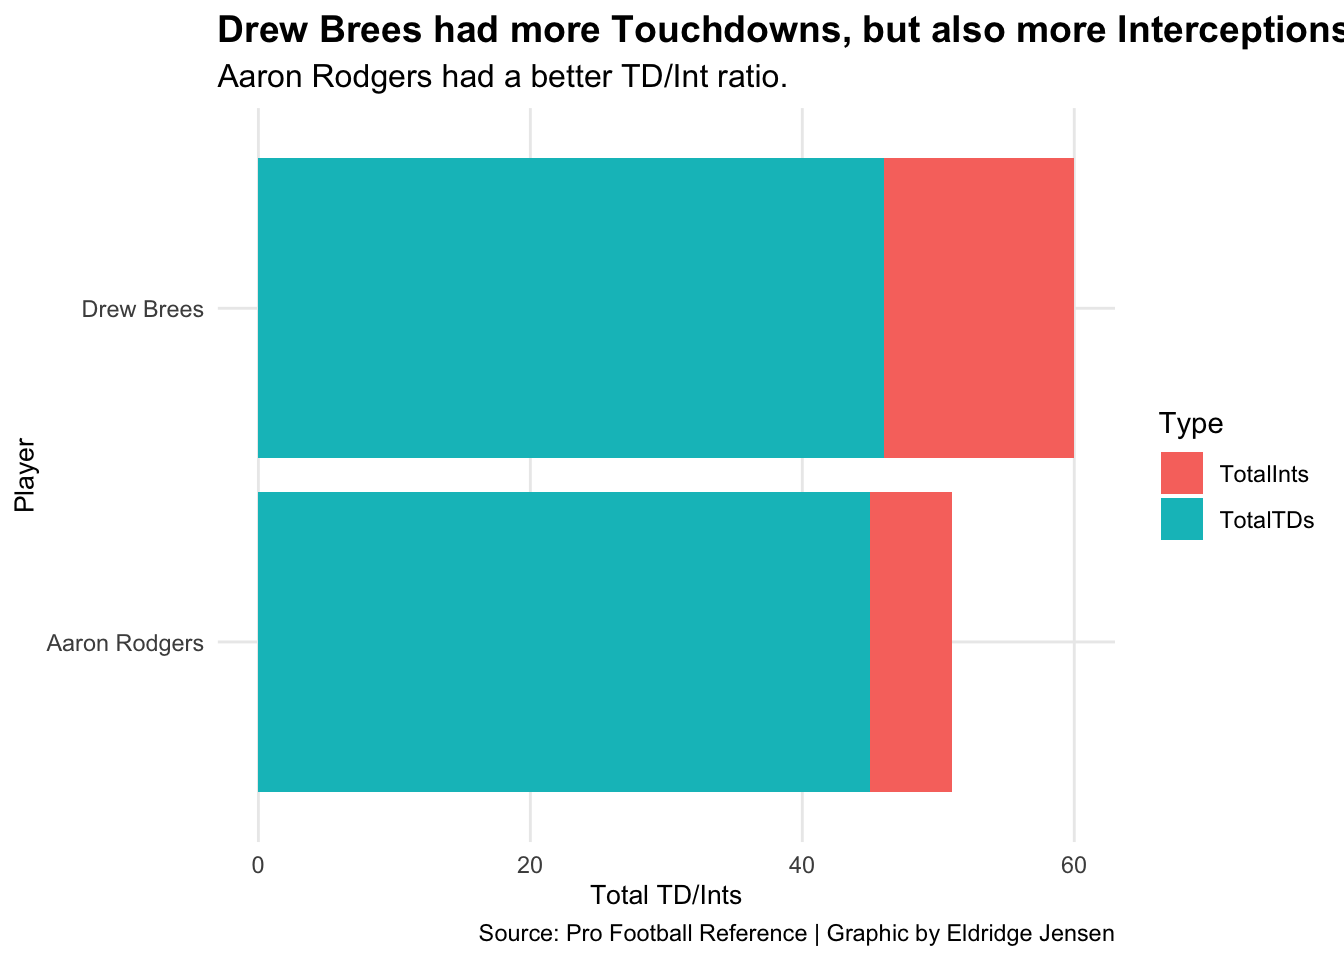
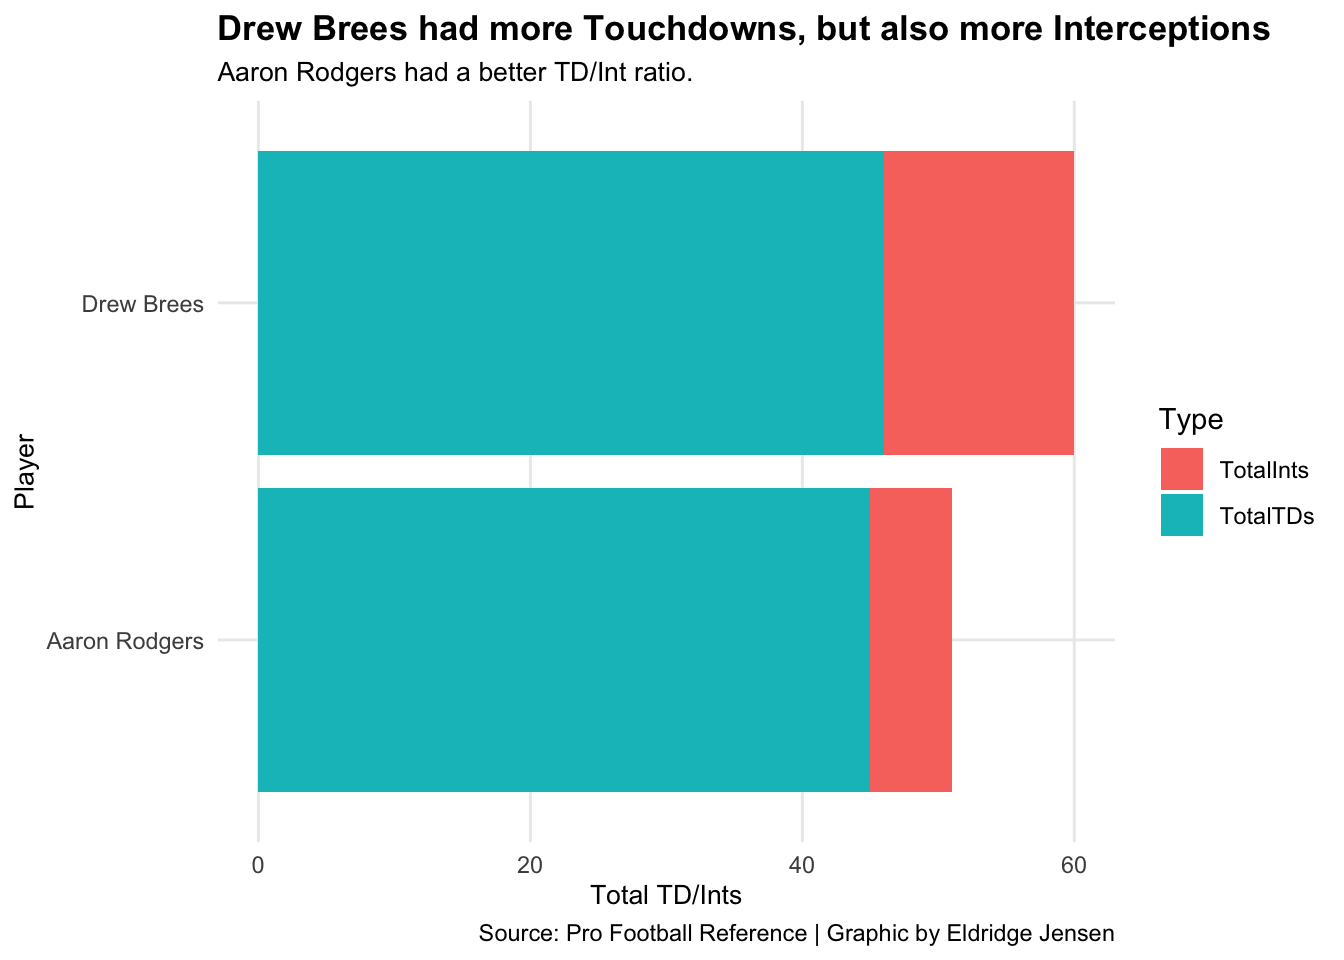
Final?
This should be everythig

diff --git a/posts/brees-mvp-rodgers-2011/index.html b/posts/brees-mvp-rodgers-2011/index.html
@@ -219,7 +219,7 @@ code span.wa { color: #60a0b0; font-weight: bold; font-style: italic; } /* Warni
 <div class="sourceCode cell-code" id="cb1"><pre class="sourceCode r code-with-copy"><code class="sourceCode r"><span id="cb1-1"><a href="#cb1-1" aria-hidden="true" tabindex="-1"></a><span class="fu">library</span>(tidyverse)</span></code><button title="Copy to Clipboard" class="code-copy-button"><i class="bi"></i></button></pre></div>
 </details>
 </div>
-<p>Over a long and decorated career, Drew Brees was seen as one of the best Quarterbacks to ever play the game of football. Retiring with the NFL record for Passing Yards, Passing Touchdowns, Passing Yards, Completion Percentage, and the most 5,000+ yard seasons in NFL history. He had also won a Super Bowl and won a couple Offensive Player of the Year Awards; but the one thing Brees never got in his illustrious career was an MVP. Drew Brees’ 2010-11 regular season was one of the best in NFL history, but his team held him back from winning an MVP. Setting a new record for passing yards in a regular season which still stand as second all time, Brees was able to finish top two in MVP finalist behind Aaron Rodgers with Rodgers winning the award.</p>
+<p>Over a long and decorated career, Drew Brees was seen as one of the best Quarterbacks to ever play the game of football. Retiring with the NFL record for Passing Yards, Passing Touchdowns, Passing Yards, Completion Percentage, and the most 5,000+ yard seasons in NFL history. He had also won a Super Bowl and won a couple Offensive Player of the Year Awards; but the one thing Brees never got in his illustrious career was an MVP. He had no better argument for MVP more than the 2010-2011 NFL season. Setting a new record for passing yards in a regular season which still stand as second all time, Brees was able to finish top two in MVP finalist behind Aaron Rodgers with Rodgers winning the award.</p>
 <div class="cell">
 <details>
 <summary>Code</summary>
@@ -256,7 +256,7 @@ code span.wa { color: #60a0b0; font-weight: bold; font-style: italic; } /* Warni
 <span id="cb4-17"><a href="#cb4-17" aria-hidden="true" tabindex="-1"></a>    <span class="at">plot.subtitle =</span> <span class="fu">element_text</span>(<span class="at">size =</span> <span class="dv">12</span>),</span>
 <span id="cb4-18"><a href="#cb4-18" aria-hidden="true" tabindex="-1"></a>    <span class="at">axis.title =</span> <span class="fu">element_text</span>(<span class="at">size =</span> <span class="dv">11</span>),</span>
 <span id="cb4-19"><a href="#cb4-19" aria-hidden="true" tabindex="-1"></a>    <span class="at">panel.grid.minor =</span> <span class="fu">element_blank</span>()</span>
-<span id="cb4-20"><a href="#cb4-20" aria-hidden="true" tabindex="-1"></a>  )</span></code><button title="Copy to Clipboard" class="code-copy-button"><i class="bi"></i></button></pre></div>
+<span id="cb4-20"><a href="#cb4-20" aria-hidden="true" tabindex="-1"></a>  ) </span></code><button title="Copy to Clipboard" class="code-copy-button"><i class="bi"></i></button></pre></div>
 </details>
 <div class="cell-output-display">
 <p><img src="index_files/figure-html/unnamed-chunk-4-1.png" class="img-fluid" width="672"></p>
@@ -269,7 +269,7 @@ code span.wa { color: #60a0b0; font-weight: bold; font-style: italic; } /* Warni
 <pre><code>Saving 7 x 5 in image</code></pre>
 </div>
 </div>
-<p>Taking a week by week look, you see that Brees really starts to separate himself near the half way point of the season passing yards wise. During that final stretch of games, he led the Saints to an 8-0 record going into the Playoffs.</p>
+<p>Taking a week by week look, you see that Brees really starts to separate himself near the half way point of the season passing yards wise. During that final stretch of games, he led the Saints to an 8-0 record going into the Playoffs. Also I took out Aaron Rodgers week 17, because he did not play that week, instead Matt Flynn threw for nearly 500 yards and 6 touchdowns, not relevant to the case, but still interesting.</p>
 <div class="cell">
 <details>
 <summary>Code</summary>
@@ -314,8 +314,8 @@ code span.wa { color: #60a0b0; font-weight: bold; font-style: italic; } /* Warni
 <span id="cb10-11"><a href="#cb10-11" aria-hidden="true" tabindex="-1"></a>  <span class="fu">scale_y_continuous</span>(<span class="at">labels =</span> scales<span class="sc">::</span>comma) <span class="sc">+</span></span>
 <span id="cb10-12"><a href="#cb10-12" aria-hidden="true" tabindex="-1"></a>  <span class="fu">theme_minimal</span>() <span class="sc">+</span></span>
 <span id="cb10-13"><a href="#cb10-13" aria-hidden="true" tabindex="-1"></a>  <span class="fu">theme</span>(</span>
-<span id="cb10-14"><a href="#cb10-14" aria-hidden="true" tabindex="-1"></a>    <span class="at">plot.title =</span> <span class="fu">element_text</span>(<span class="at">size =</span> <span class="dv">14</span>, <span class="at">face =</span> <span class="st">"bold"</span>),</span>
-<span id="cb10-15"><a href="#cb10-15" aria-hidden="true" tabindex="-1"></a>    <span class="at">plot.subtitle =</span> <span class="fu">element_text</span>(<span class="at">size =</span> <span class="dv">12</span>),</span>
+<span id="cb10-14"><a href="#cb10-14" aria-hidden="true" tabindex="-1"></a>    <span class="at">plot.title =</span> <span class="fu">element_text</span>(<span class="at">size =</span> <span class="dv">13</span>, <span class="at">face =</span> <span class="st">"bold"</span>),</span>
+<span id="cb10-15"><a href="#cb10-15" aria-hidden="true" tabindex="-1"></a>    <span class="at">plot.subtitle =</span> <span class="fu">element_text</span>(<span class="at">size =</span> <span class="dv">10</span>),</span>
 <span id="cb10-16"><a href="#cb10-16" aria-hidden="true" tabindex="-1"></a>    <span class="at">axis.title =</span> <span class="fu">element_text</span>(<span class="at">size =</span> <span class="dv">10</span>),</span>
 <span id="cb10-17"><a href="#cb10-17" aria-hidden="true" tabindex="-1"></a>    <span class="at">panel.grid.minor =</span> <span class="fu">element_blank</span>()</span>
 <span id="cb10-18"><a href="#cb10-18" aria-hidden="true" tabindex="-1"></a>  )</span></code><button title="Copy to Clipboard" class="code-copy-button"><i class="bi"></i></button></pre></div>
@@ -324,7 +324,7 @@ code span.wa { color: #60a0b0; font-weight: bold; font-style: italic; } /* Warni
 <p><img src="index_files/figure-html/unnamed-chunk-8-1.png" class="img-fluid" width="672"></p>
 </div>
 </div>
-<p>Aaron Rodgers MVP run was fueled by his teams 15-1 regular season, and his terrific 45 to 6 Touchdown to Interception ratio. But, even though he played great, he still did not deserve to win this award outright. Brees only lost 2 more games than Aaron Rodgers, and had much better stats than he did.</p>
+<p>Aaron Rodgers MVP run was fueled by his teams 15-1 regular season, and his terrific 45 to 6 Touchdown to Interception ratio. But, even though he played great, he still did not deserve to win this award outright. Brees only lost 2 more games than Aaron Rodgers, and had much better stats than Rodgers did.</p>
 <div class="cell">
 <details>
 <summary>Code</summary>
@@ -363,7 +363,7 @@ code span.wa { color: #60a0b0; font-weight: bold; font-style: italic; } /* Warni
 <p><img src="index_files/figure-html/unnamed-chunk-12-1.png" class="img-fluid" width="672"></p>
 </div>
 </div>
-<p>Drew Brees in 2011 won the AP Offensive Player of the Year award, winning 86% of the votes that year. Brees statistically was the best QB statistically this year, he was number one in passing yards where Rodgers was 5th in the league this year. Brees was also number one in passing Touchdowns where Rodgers was second. Brees also set a new NFL record with 71.4% completion percentage, which he go on to break his record three more times over the rest of his career.</p>
+<p>Brees set a new NFL record this year with a 71.4% completion percentage, which helped him secure the 2011 AP Offensive Player of the Year Award, winning with over 86% of the votes. Brees statistically was the best QB statistically this year, he was number one in passing yards where Rodgers was fifth in the league this year. Brees was also number one in passing Touchdowns where Rodgers was second. Aaron Rodgers did have a great year as well, 15-1 record and that insane TD/Int ratio was crazy, but this should not have been enough to take away the MVP from Brees.</p>
 
 
 

diff --git a/index.html b/index.html
@@ -171,7 +171,7 @@ ul.task-list li input[type="checkbox"] {
 
 <div class="quarto-listing quarto-listing-container-default" id="listing-listing">
 <div class="list quarto-listing-default">
-<div class="quarto-post image-right" data-index="0" data-categories="football,NFL,MVP" data-listing-date-sort="1681621200000" data-listing-file-modified-sort="1681685386850" data-listing-reading-time-sort="4.185">
+<div class="quarto-post image-right" data-index="0" data-categories="football,NFL,MVP" data-listing-date-sort="1681621200000" data-listing-file-modified-sort="1681686504491" data-listing-reading-time-sort="4.385">
 <div class="thumbnail">
 <p><a href="./posts/brees-mvp-rodgers-2011/index.html"> <img src="./posts/brees-mvp-rodgers-2011/image.png" class="thumnail-image"> </a></p>
 </div>
